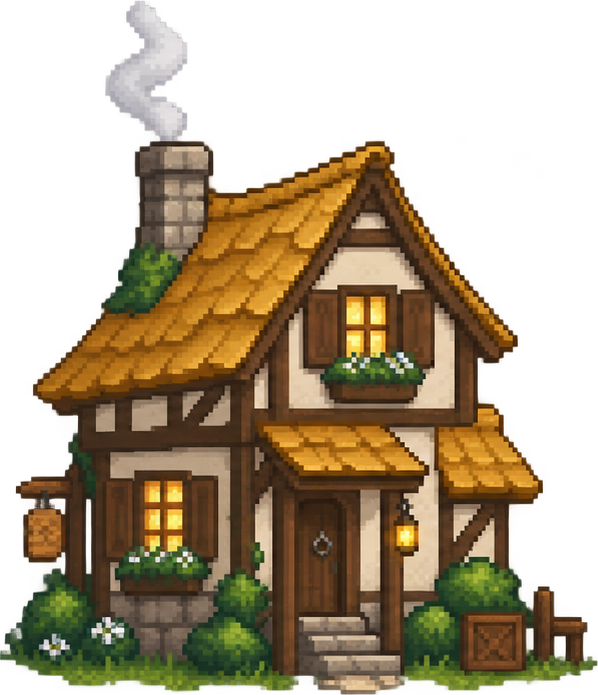
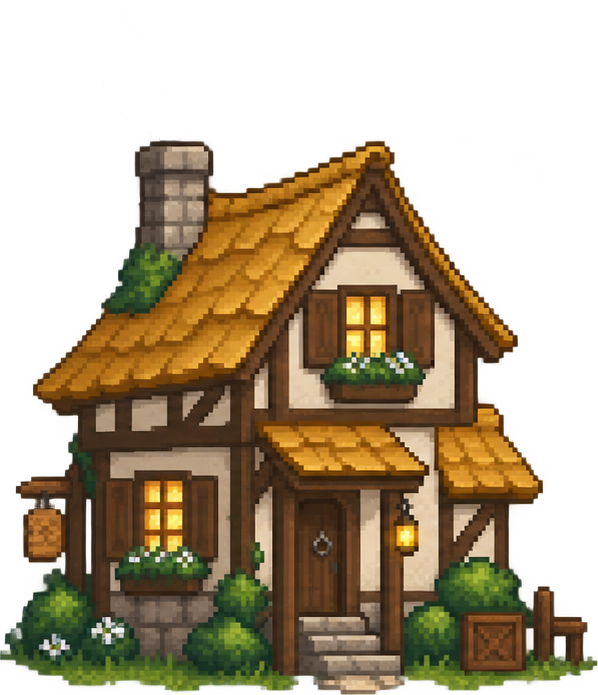
Fumée des cheminées retirée, 5e teinte violette pour éviter le doublon or
Fumée effacée sur les 5 sprites (masque zone haute + faible saturation,
sans toucher le reste de la cheminée) sur demande explicite.

Deux maisons avaient le même toit doré (seulement 3 références pour
5 maisons). Tenté de recolorer le toit doré directement, mais sa
palette est trop proche du bois/des murs pour un masque couleur
propre (tout devenait magenta, pas seulement le toit). Recoloré le
toit bleu à la place — séparation de teinte nette, comme pour le vert
— vers un violet distinct (+ bannière recolorée avec, pour un vrai
look "5e bâtiment"). palette.gd gagne roofPurple/roofPurpleShadow
pour les ruines de cette maison après effondrement.

Claude-Session: https://claude.ai/code/session_016yAC6ssaf6BSe8MTXBU3RM

Changed region(s): [[0.1806, 0.0, 0.3311, 0.2115]]

diff --git a/README.md b/README.md
@@ -15,8 +15,8 @@ Reconstruction indépendante, pas un portage automatique : le rendu canvas, le H
 - [x] Météo — pluie, éclair, teinte d'orage (`scripts/world/weather_layer.gd` + `background_layer.gd`). **Vérifié en jeu : fonctionne, aucune correction nécessaire.** La pluie penche et accélère selon le vent (direction + force partagées avec `WindEngine`, mêmes formules que l'original). **Poussé, pas encore vérifié.**
 - [x] Moteur de vent (`scripts/world/wind_engine.gd`) + balancement des arbres/buissons/clôture + traînées de vent + nuages qui dérivent. **Vérifié en jeu : fonctionne, aucune correction nécessaire.**
 - [~] Dégâts du vent — arbres qui plient et tombent, maisons qui se fissurent/s'effondrent en ruines, moulin qui peut aussi s'effondrer, débris qui volent (`tree_sprite.gd`, `house_sprite.gd`, `windmill_sprite.gd`, `debris_fragment.gd`, `dust_puff.gd`, `debris_spawner.gd`). **Écart voulu par rapport à l'original, demandé explicitement** : une fois tombé/effondré, ça ne repousse/reconstruit jamais — l'original fait revenir les arbres et reconstruit les maisons après un temps calme, on a choisi de ne pas le garder. Pour les maisons, l'étape intermédiaire "toit perdu, grenier visible" a été retirée en passant au rendu par sprite (voir ci-dessous) : les fissures s'aggravent maintenant directement jusqu'aux ruines. **Poussé mais pas encore vérifié.**
-- [x] **Maisons en sprites fidèles aux références** (`house_sprite.gd`, `assets/houses/`) : sur demande explicite, les 5 maisons utilisent maintenant directement les images de référence fournies (architecture à colombages, toit en tuiles arrondies, cheminée fumante, buissons/tonneau/lanterne intégrés) au lieu du dessin procédural — 3 références fournies (rouge/or/bleu) + une 4e variante verte obtenue en recolorant le toit de la version rouge (pas de génération d'image possible ici, recoloration = résultat le plus fidèle au style). Les dégâts (fissures, ruines) restent dessinés par-dessus en procédural, inchangés dans leur logique de déclenchement. **Poussé, pas encore vérifié.**
-- [ ] Fumée des cheminées (détail mineur, pas encore fait — plus pertinent que jamais vu que les sprites de maison en ont déjà une "gelée" dans l'image)
+- [x] **Maisons en sprites fidèles aux références** (`house_sprite.gd`, `assets/houses/`) : sur demande explicite, les 5 maisons utilisent maintenant directement les images de référence fournies (architecture à colombages, toit en tuiles arrondies, cheminée, buissons/tonneau/lanterne intégrés) au lieu du dessin procédural — 3 références fournies (rouge/or/bleu) + 2 variantes obtenues par recoloration ciblée du toit (masque couleur, pas par-dessus toute l'image) : vert depuis le rouge, violet depuis le bleu — pas de génération d'image possible ici, recoloration = résultat le plus fidèle au style pour une 5e teinte sans doublon. La fumée des cheminées, présente dans les références, a été effacée des 5 images (demandé explicitement). Les dégâts (fissures, ruines) restent dessinés par-dessus en procédural, inchangés dans leur logique de déclenchement. **Poussé, pas encore vérifié.**
+- [ ] Fumée des cheminées animée (détail mineur, pas encore fait — celle des références a été retirée sur demande)
 - [ ] Son du tonnerre (synthétisé, comme l'original) sur les éclairs — pas nécessaire pour l'instant
 - [ ] Passe de fidélité visuelle (bois/parchemin/or, dock en pierre) + curseur personnalisé selon le survol — à faire ensemble, nécessitera des allers-retours avec des captures d'écran, comme pour l'Arbre du Chaos sur la version web
 
